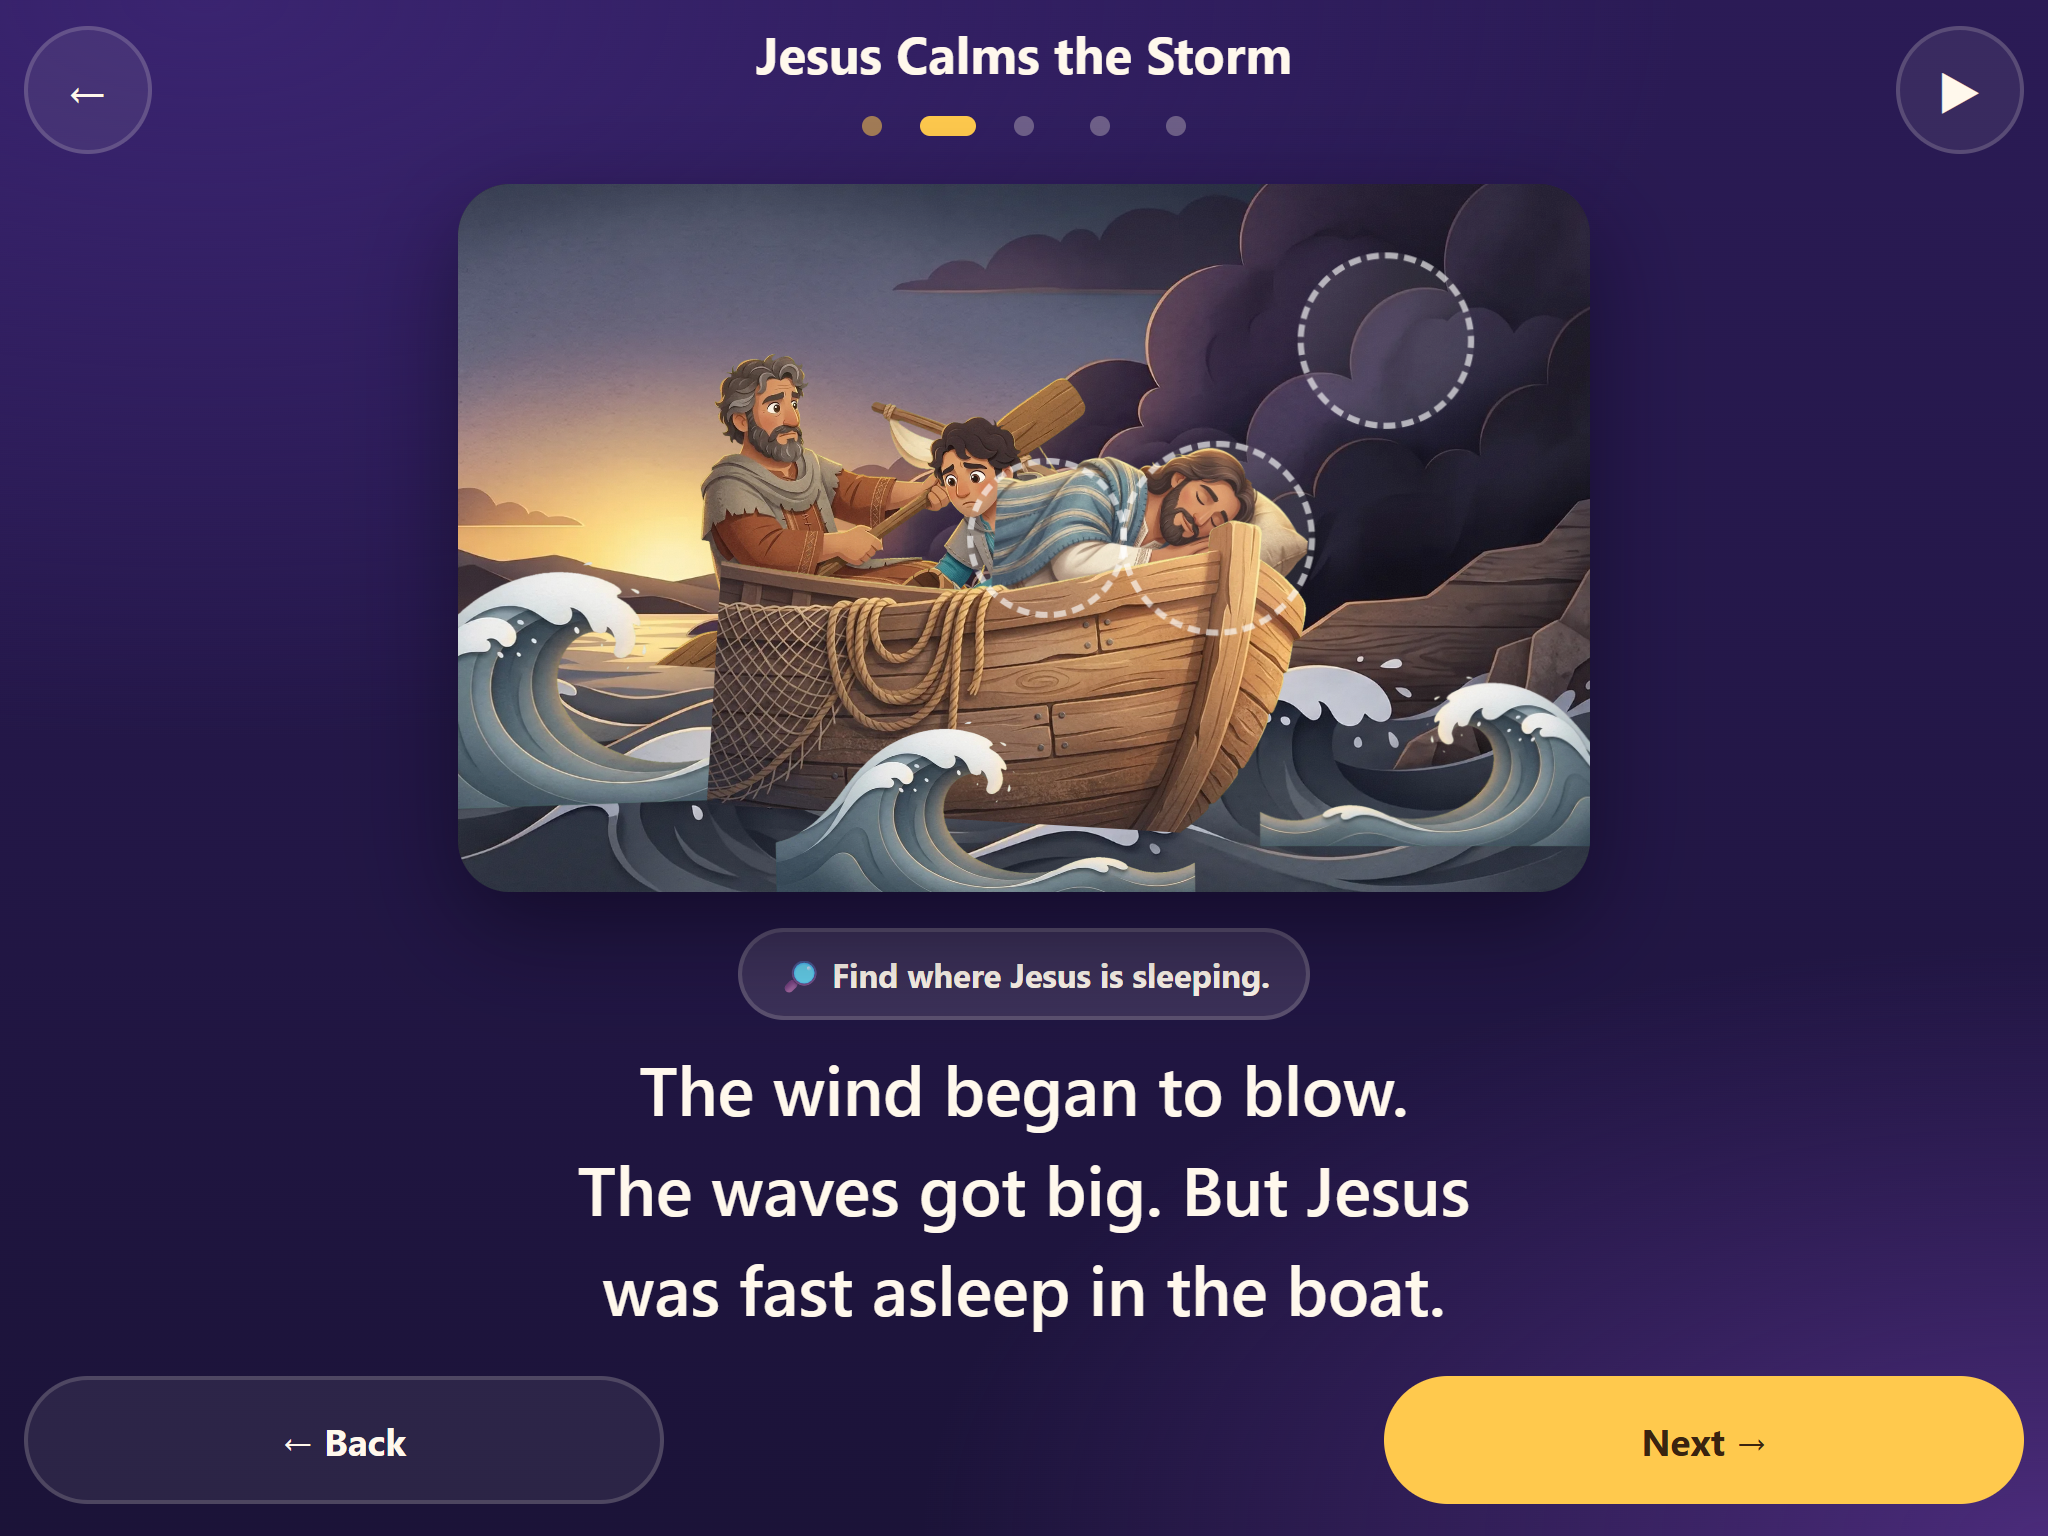
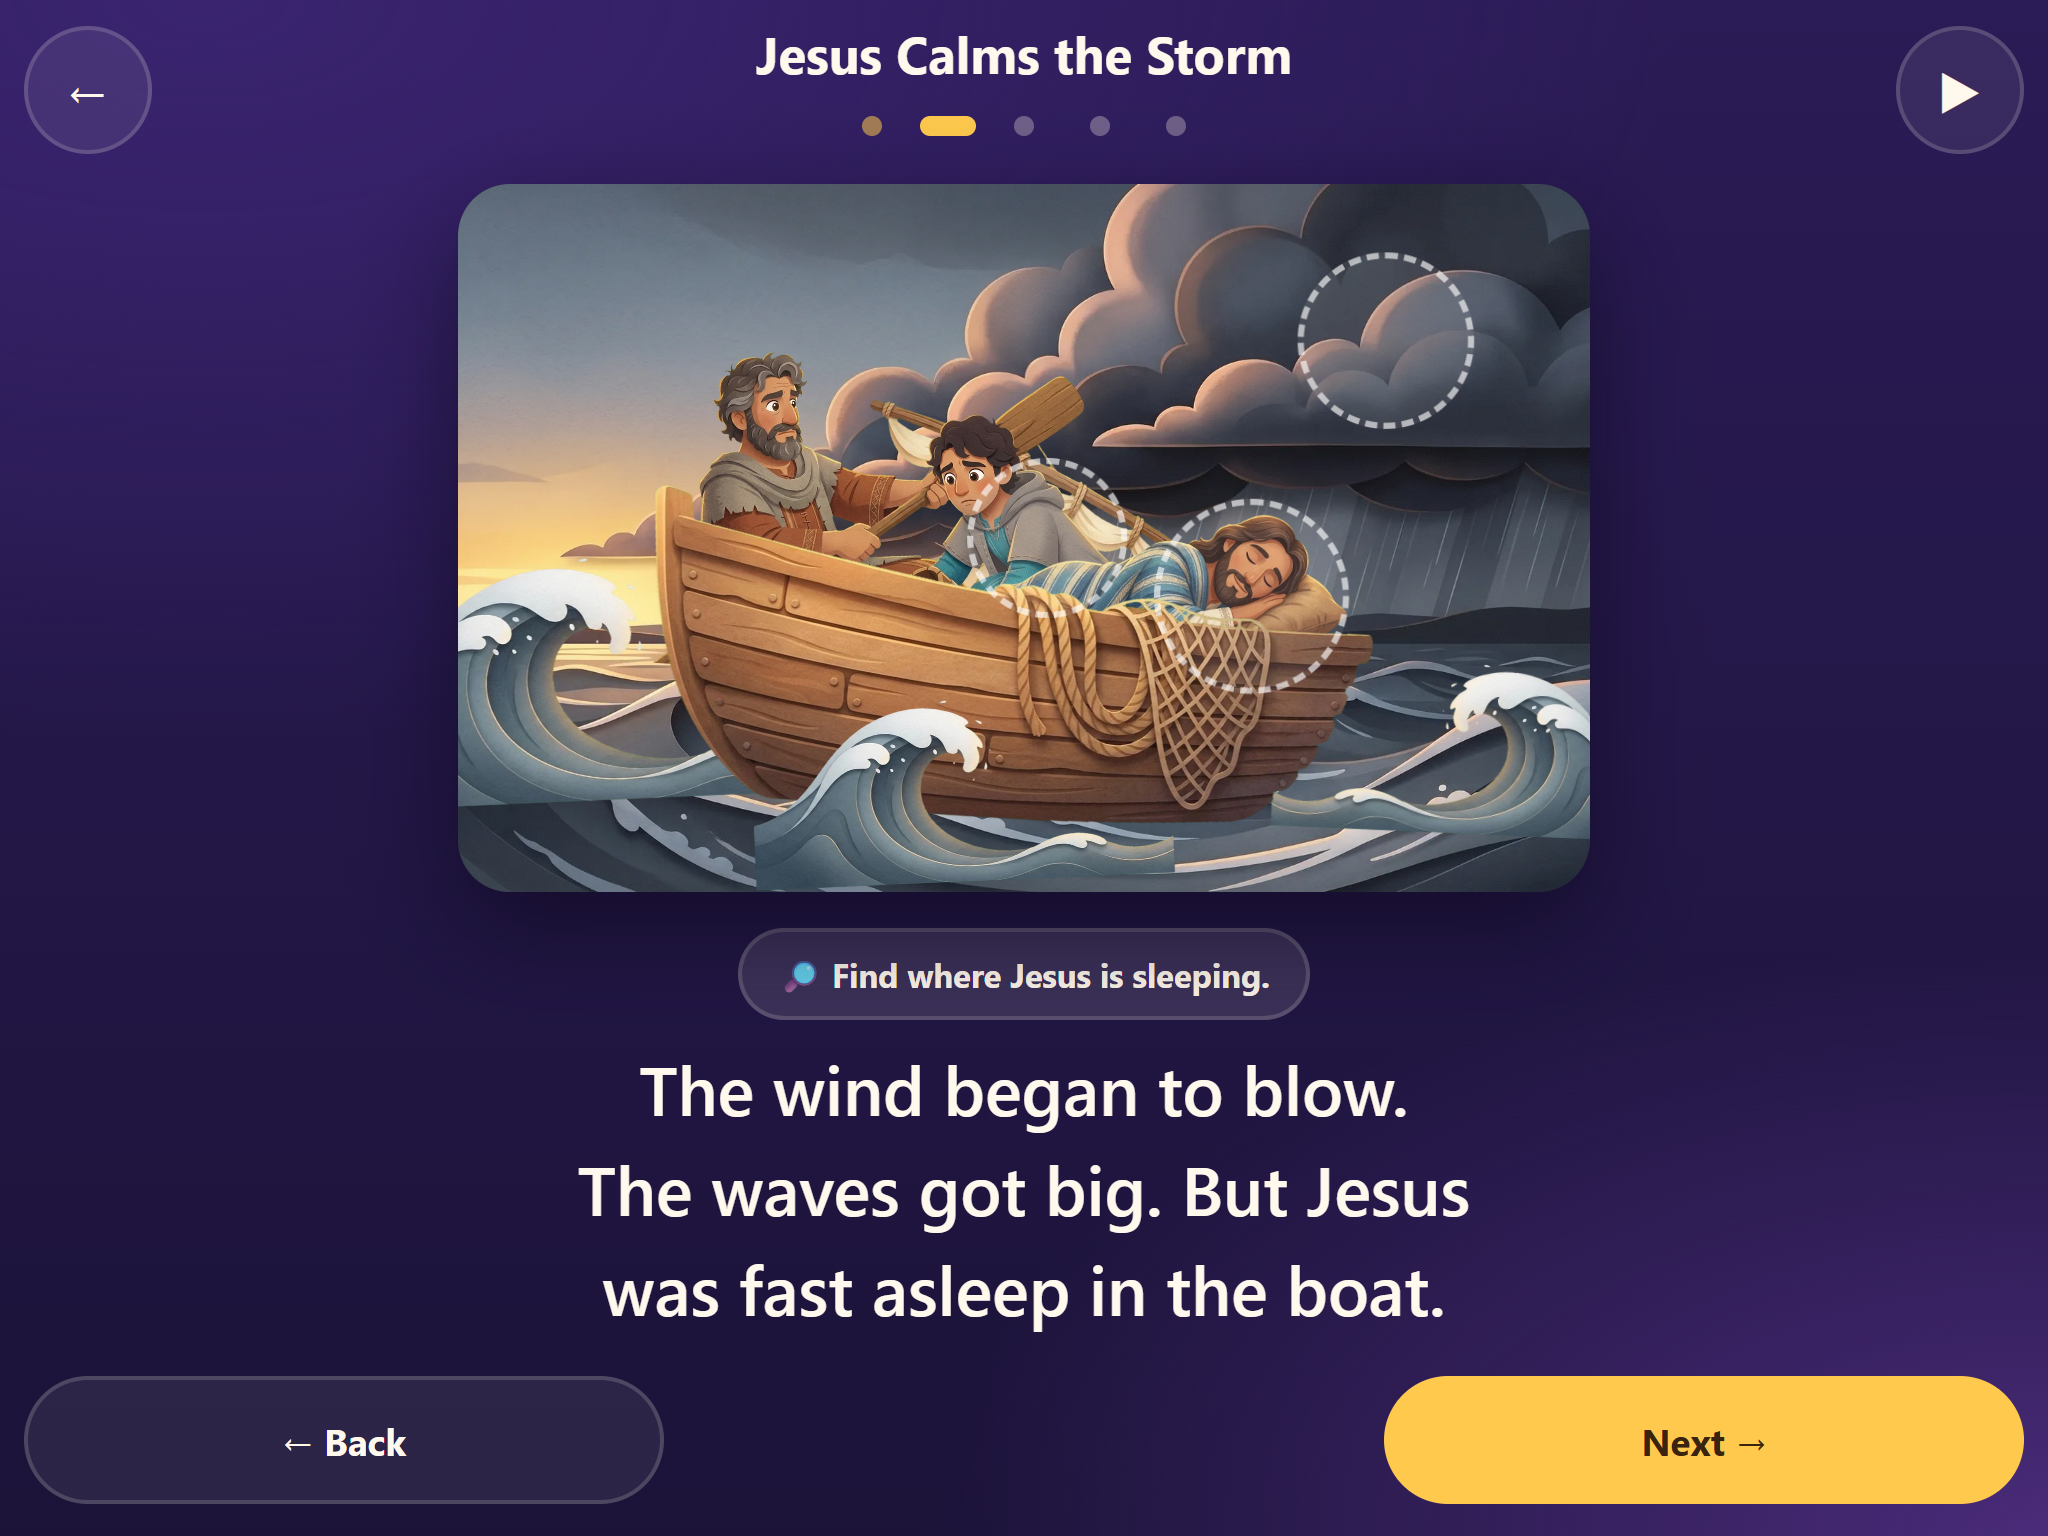
Storm pages 1 and 2: gulls fly forward, whole boats, richer shore, open-water storm, waves ride the boat
Page 1: gulls flip to face the fly path; the shore boat is regenerated
whole with a furled sail and a hull as tall as the men; the background
gains a jetty, a lit village, moored and sailing boats and shore props.
Page 2: the hull's stern and the sleeping figure's feet were cut by their
generation frames, so the page takes the calm page's whole hull and a
regenerated Jesus with the entire figure in frame, lying on the cushion
inside the boat; the background is open water with a volumetric storm
bank and no rocks. On every boat page the side waves share the boat's
heave phase and the front wave sits inside the boat's heave group.

Changed region(s): [[0.2188, 0.0938, 0.7812, 0.5938], [0.75, 0.125, 0.7812, 0.1562]]

diff --git a/src/scenes/storm.tsx b/src/scenes/storm.tsx
@@ -196,12 +196,14 @@ function Ripple({
   scale,
   delay,
   flip = false,
+  cls = "a-heave-slow",
 }: {
   x: number;
   y: number;
   scale: number;
   delay: number;
   flip?: boolean;
+  cls?: string;
 }) {
   return (
     <Layer
@@ -212,7 +214,7 @@ function Ripple({
       y={y}
       scale={scale}
       flip={flip}
-      className="a-heave-slow"
+      className={cls}
       delay={delay}
     />
   );
@@ -266,36 +268,36 @@ export function SettingOut({ found }: SceneArtProps) {
   return (
     <>
       <Backdrop src={eveningBg} />
-      <Gull x={640} y={150} s={0.22} delay={-4} />
-      <Gull x={760} y={110} s={0.16} delay={-13} />
-      <SoftShadow x={710} y={612} rx={250} ry={18} opacity={0.35} />
+      <Gull x={640} y={150} s={0.22} delay={-4} flip />
+      <Gull x={760} y={110} s={0.16} delay={-13} flip />
+      <SoftShadow x={700} y={615} rx={280} ry={18} opacity={0.35} />
       <Layer
         src={eveningBoat}
         w={L["boat-shore"].w}
         h={L["boat-shore"].h}
-        x={710}
-        y={612}
-        scale={0.72}
+        x={700}
+        y={615}
+        scale={0.68}
         className="a-rock"
       />
-      <SoftShadow x={260} y={604} rx={80} ry={13} opacity={0.4} />
+      <SoftShadow x={300} y={604} rx={80} ry={13} opacity={0.4} />
       <Layer
         src={eveningJesus}
         w={L["jesus-invite"].w}
         h={L["jesus-invite"].h}
-        x={260}
+        x={300}
         y={604}
         scale={0.42}
         className="a-breathe"
       >
         <Lids name="jesus-invite" w={L["jesus-invite"].w} h={L["jesus-invite"].h} delay={0.3} />
       </Layer>
-      <SoftShadow x={470} y={608} rx={80} ry={13} opacity={0.4} />
+      <SoftShadow x={480} y={608} rx={80} ry={13} opacity={0.4} />
       <Layer
         src={eveningJohn}
         w={L["john-nets"].w}
         h={L["john-nets"].h}
-        x={470}
+        x={480}
         y={608}
         scale={0.4}
         className="a-breathe"
@@ -303,12 +305,12 @@ export function SettingOut({ found }: SceneArtProps) {
       >
         <Lids name="john-nets" w={L["john-nets"].w} h={L["john-nets"].h} delay={2.6} />
       </Layer>
-      <SoftShadow x={590} y={612} rx={90} ry={13} opacity={0.4} />
+      <SoftShadow x={610} y={612} rx={90} ry={13} opacity={0.4} />
       <Layer
         src={eveningPeter}
         w={L["peter-push"].w}
         h={L["peter-push"].h}
-        x={590}
+        x={610}
         y={612}
         scale={0.4}
         className="a-breathe-slow"
@@ -316,7 +318,7 @@ export function SettingOut({ found }: SceneArtProps) {
       >
         <Lids name="peter-push" w={L["peter-push"].w} h={L["peter-push"].h} delay={1.7} />
       </Layer>
-      {found.includes("nets") && <Sparkle x={720} y={280} s={1.5} />}
+      {found.includes("nets") && <Sparkle x={470} y={380} s={1.5} />}
       <Grain opacity={0.05} />
     </>
   );
@@ -328,8 +330,8 @@ export function AsleepInTheStern({ found }: SceneArtProps) {
   return (
     <>
       <Backdrop src={asleepBg} />
-      <Wave x={150} y={560} scale={0.6} cls="a-heave-slow" delay={0} />
-      <Wave x={880} y={585} scale={0.42} cls="a-heave-slow" delay={2.4} flip />
+      <Wave x={150} y={560} scale={0.6} cls="a-heave" delay={0} />
+      <Wave x={880} y={585} scale={0.42} cls="a-heave" delay={0} flip />
       <g className="a-heave">
         <g className="a-rock">
           <Layer
@@ -367,9 +369,9 @@ export function AsleepInTheStern({ found }: SceneArtProps) {
             src={asleepJesus}
             w={L["jesus-asleep"].w}
             h={L["jesus-asleep"].h}
-            x={618}
-            y={448}
-            scale={0.42}
+            x={640}
+            y={468}
+            scale={0.36}
             flip
             className="a-breathe-slow"
             delay={1.4}
@@ -383,8 +385,8 @@ export function AsleepInTheStern({ found }: SceneArtProps) {
             scale={0.62}
           />
         </g>
+        <Wave x={470} y={640} scale={0.45} cls="" delay={0} />
       </g>
-      <Wave x={470} y={640} scale={0.45} cls="a-heave" delay={0.9} />
       {found.includes("cushion") && <Sparkle x={660} y={300} s={1.5} />}
       <Grain opacity={0.06} />
     </>
@@ -398,8 +400,8 @@ export function TheWildNight({ found }: SceneArtProps) {
     <>
       <Backdrop src={afraidBg} />
       <Lightning delay={0.8} x={-120} y={30} s={0.55} />
-      <Wave x={130} y={540} scale={0.72} cls="a-heave" delay={0.3} />
-      <Wave x={890} y={565} scale={0.52} cls="a-heave" delay={1.8} flip />
+      <Wave x={130} y={540} scale={0.72} cls="a-heave" delay={0} />
+      <Wave x={890} y={565} scale={0.52} cls="a-heave" delay={0} flip />
       <g className="a-heave">
         <g className="a-rock">
           <g className="a-shake">
@@ -459,8 +461,8 @@ export function TheWildNight({ found }: SceneArtProps) {
             />
           </g>
         </g>
+        <Wave x={460} y={645} scale={0.5} cls="" delay={0} />
       </g>
-      <Wave x={460} y={645} scale={0.5} cls="a-heave" delay={1.1} />
       <Rain count={120} seed={7} />
       {found.includes("lightning") && <Sparkle x={240} y={110} s={2} />}
       <Grain opacity={0.07} />
@@ -478,7 +480,7 @@ export function QuietBeStill({ found }: SceneArtProps) {
         <LightShaft x={500} top={0} topWidth={140} bottomSpread={420} floorY={560} />
       </g>
       <Ripple x={140} y={575} scale={0.6} delay={0} />
-      <Ripple x={880} y={590} scale={0.42} delay={2} flip />
+      <Ripple x={880} y={590} scale={0.42} delay={0} flip />
       <g className="a-heave-slow">
         <Layer
           src={peaceBoatBack}
@@ -536,8 +538,8 @@ export function QuietBeStill({ found }: SceneArtProps) {
           y={600}
           scale={0.62}
         />
+        <Ripple x={470} y={640} scale={0.5} delay={0} cls="" />
       </g>
-      <Ripple x={470} y={640} scale={0.5} delay={1} />
       <Motes x={500} top={40} bottom={560} spread={200} />
       {found.includes("light") && <Sparkle x={500} y={90} s={2.2} />}
       <Grain opacity={0.05} />
@@ -552,8 +554,8 @@ export function WhoIsThis({ found }: SceneArtProps) {
     <>
       <Backdrop src={calmBg} />
       <Gull x={220} y={150} s={0.2} delay={-9} flip />
-      <Ripple x={160} y={580} scale={0.56} delay={0.5} />
-      <Ripple x={860} y={592} scale={0.42} delay={2.5} flip />
+      <Ripple x={160} y={580} scale={0.56} delay={0} />
+      <Ripple x={860} y={592} scale={0.42} delay={0} flip />
       <g className="a-heave-slow">
         <Layer
           src={calmBoatBack}
@@ -599,8 +601,8 @@ export function WhoIsThis({ found }: SceneArtProps) {
           y={600}
           scale={0.62}
         />
+        <Ripple x={470} y={640} scale={0.5} delay={0} cls="" />
       </g>
-      <Ripple x={470} y={640} scale={0.5} delay={1.5} />
       <Sparkle x={300} y={90} s={1.2} delay={0.4} />
       <Sparkle x={720} y={70} s={1} delay={1.1} />
       {found.includes("gull") && <Sparkle x={220} y={110} s={1.6} />}

diff --git a/src/data/stories/storm.ts b/src/data/stories/storm.ts
@@ -22,14 +22,14 @@ export const storm: Story = {
       },
       verse: "Mark 4:35–36",
       find: {
-        prompt: "Find the nets drying on the shore.",
+        prompt: "Find the fishing nets.",
         targets: ["nets"],
       },
       hotspots: [
         {
           id: "nets",
-          x: 72,
-          y: 44,
+          x: 47,
+          y: 60,
           size: 16,
           label: "the fishing nets",
           reward: "Peter and John were fishermen. This lake was their workplace.",
@@ -38,8 +38,8 @@ export const storm: Story = {
         },
         {
           id: "boat",
-          x: 72,
-          y: 84,
+          x: 70,
+          y: 80,
           size: 24,
           label: "the boat",
           reward:
@@ -72,8 +72,8 @@ export const storm: Story = {
       hotspots: [
         {
           id: "cushion",
-          x: 67,
-          y: 50,
+          x: 70,
+          y: 58,
           size: 22,
           label: "Jesus asleep",
           reward: "He was so tired he slept through the wind.",

diff --git a/docs/evidence/2026-09-18-storm-story/record.md b/docs/evidence/2026-09-18-storm-story/record.md
@@ -120,3 +120,43 @@ Findings and fixes, renders and stills in this folder replaced:
 Checks after the round: 155 tests, `tsc -b` clean, 38 scenes motion-clean,
 five renders re-read, 15 browser stills reshot (phone, tablet, first
 hotspot). Budgets unchanged (no asset changed).
+
+## Review round 2 (owner, 2026-09-19): pages 1 and 2
+
+Page 1 (shore): "birds flying backwards, boat broken in the centre and too
+small, richer environment and boats on the water".
+
+- The gulls face left and the `fly` path runs left to right; both gulls
+  now `flip`, so they fly beak first.
+- The first boat cutout had a gap at the mast and a small hull; the second
+  had a sail cut flat by the frame top. Third generation asks for a boat
+  small in its frame with a furled sail and clear space above the mast;
+  it came back whole (780×579, 50 KB) and sits at scale 0.68, hull as tall
+  as the men. Sidecar `evening-boat-shore-v2.json`.
+- Background regenerated at 2K with a stone jetty, a hillside village with
+  lit windows, four moored and sailing boats with reflections, drying nets,
+  jar, basket, oar and grass (`evening-bg-v2.json`). 150 KB after pack;
+  scene 445 KB. Nets hotspot moved to the nets John carries (the drying
+  nets are at the left edge, inside the phone crop line).
+
+Page 2 (asleep): "Jesus cut in half, boat cut in half, waves and boat out
+of sync, cloud and rocks unrealistic".
+
+- Both cuts were frame edges: the near hull's stern and the lying figure's
+  feet had overflowed their generation frames and ended in the same flat
+  vertical line. The hull is now the calm page's whole hull (in the packed
+  assets and the raw folder); Jesus regenerated at 16:9 with "the entire
+  figure inside the frame" (866×420, 70 KB, `asleep-jesus-asleep-v2.json`),
+  lying on the cushion inside the boat at scale 0.36. Cushion hotspot
+  70 %, 58 %.
+- Background regenerated: open water only, no rocks or shore, storm bank
+  with volume and a distant rain curtain (`asleep-bg-v2.json`, 72 KB).
+  Scene 385 KB.
+- Wave sync: side waves on every boat page now share the boat's heave class
+  and phase, and the front wave sits inside the boat's heave group so it
+  rises and falls with the hull (`Ripple` gained a `cls` prop; `Wave`
+  already had one). Applied to asleep, afraid, peace and calm.
+
+Renders `storm-evening.png`, `storm-asleep.png` and the stills replaced;
+cutout sheets `*-cutouts-on-green-v2.png`. Calls this round: 5 (one boat
+attempt discarded). 155 tests, 38 scenes motion-clean.
